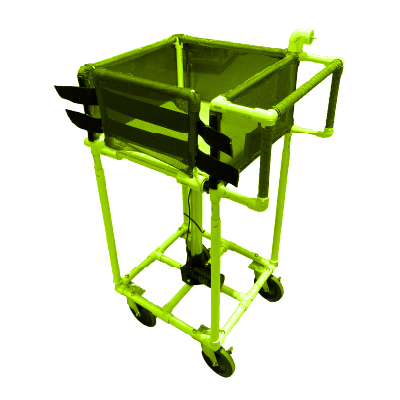
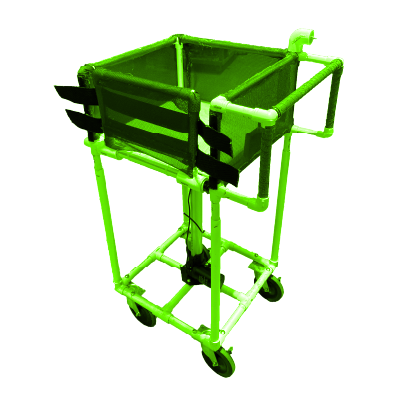
edits

Changed region(s): [[0.18, 0.06, 0.87, 0.93], [0.21, 0.27, 0.27, 0.3]]

diff --git a/cart-with-basket.html b/cart-with-basket.html
@@ -79,10 +79,10 @@
 </header>
 
 <body>
-    <div class="front-page">
-        <img src="images/cart-with-basket/small-cart-green-pixel.png" alt="cart-with-basket">
+    <div class="front-page green">
+        <img src="images/cart-with-basket/small-cart-green.png" alt="cart-with-basket">
     </div>
-    <div class="title-page">
+    <div class="title-page green">
         <p>Cart with basket</p>
     </div>
     <div class="content">
@@ -91,9 +91,11 @@
                 Project summary
             </p>
         </div>
-        <div class="content">
-            <img src="images/cart-with-basket/small-cart.png" alt="Image description">
-            <div class="text-box-2">
+        <div class="content-page">
+            <div class="image-section">
+                <img src="images/cart-with-basket/small-cart.png">
+            </div>
+            <div class="text-box-3">
                 <p>
                     <strong>Date:</strong> Jan. 2023 - Mar. 2023
                     <br><br>
@@ -101,17 +103,23 @@
                     challenges. Our mission was to create a device that improves the grocery shopping experience for our
                     client, Judy Geigner.
                     <br><br>
-                    Mrs. Giegner, a senior citizen struggling with Parkinson’s and osteoarthritis, faced difficulties when
+                    Mrs. Giegner, a senior citizen struggling with Parkinson’s and osteoarthritis, faced difficulties
+                    when
                     bending down, raising her arms above her shoulders, and executing complex hand movements. However,
                     despite her medical conditions, she independently managed her weekly grocery shopping and wanted to
                     continue doing it as it was one of her favorite hobbies.
                 </p>
             </div>
-
-            <img src="images/cart-with-basket/Yoon_Section6_Team4.png" alt="Image description">
-            <div class="text-box-2">
+        </div>
+        <div class="content-page">
+            <div class="image-section">
+                <img src="images/cart-with-basket/Yoon_Section6_Team4.png">
+            </div>
+            <div class="text-box-3">
                 <p>
-                    Understanding her needs led us to develop the <strong>Cart With Basket</strong>, specifically engineered to
+                    Understanding her needs led us to develop the <strong>Cart With Basket</strong>, specifically
+                    engineered
+                    to
                     facilitate easy transfer of groceries from her car trunk to her tabletop, which had different
                     heights. To
                     accommodate Mrs. Giegner’s mobility restrictions, we focused on creating a solution that minimized
@@ -123,15 +131,18 @@
                     the quarter, we presented this prototype to Mrs. Giegner.
                 </p>
             </div>
+        </div>
 
         <div class="chapter">
             <p>Major features</p>
         </div>
-        <div class="content">
-            <img src="images/cart-with-basket/7.png" alt="Image 2">
-            <div class="text-box-2">
+        <div class="content-page">
+            <div class="image-section">
+                <img src="images/cart-with-basket/7.png" alt="Image 2">
+            </div>
+            <div class="text-box-3">
                 <p>
-                    <strong>1. Openable side with velcro locks</strong>
+                    <strong>Openable side with velcro locks</strong>
                     <br><br>
                     A basket requires up and down hand movement. Since our client could not carry heavy groceries and
                     raise them up vertically, we needed to find an easy but effective way to load and unload groceries.
@@ -147,17 +158,19 @@
             </div>
         </div>
         <div class="content-page">
-            <img src="images/cart-with-basket/5.jpg" alt="Image 2">
-            <div class="text-box-2">
+            <div class="image-section">
+                <img src="images/cart-with-basket/5.jpg" alt="Image 2">
+            </div>
+            <div class="text-box-3">
                 <p>
-                    <strong>2. U-shaped handles</strong>
+                    <strong>U-shaped handles</strong>
                     <br><br>
                     Our team decided to improve the handle: instead of only having the straight bar a normal shopping
                     cart would have, we decided to add vertical handles on each side, creating an unique inverse
                     U-shaped handle. This shape helps the client push the cart up a ramp as it provides a more stable
                     grip. The handle was wrapped with rubber grip tape for comfort and safety.
                     <br><br>
-                    <strong>3. Adjustable height using linear actuator</strong>
+                    <strong>Adjustable height using linear actuator</strong>
                     <br><br>
                     The client's car trunk and the tabletop had a difference in height of 10 inches. The client
                     wanted a non-complicated device that would assist her moving groceries up to her tabletop.
@@ -173,34 +186,34 @@
                     change
                     batteries every once in a while.
                     <br><br>
-                    <strong>4. Locking wheels</strong>
+                    <strong>Locking wheels</strong>
                     <br><br>
                     In order for the client to move her groceries from her car to her tabletop, she had to walk up a
                     ramp and open a door. The locking wheels fix the cart on the ramp while she opens her door.
                 </p>
             </div>
         </div>
-        <div class="chapter-page">
+        <div class="chapter">
             <p>Mockups, CAD, making, & presentation</p>
         </div>
-    </div>
-    <div class="image-section">
-        <img src="images/cart-with-basket/mockup1.png" alt="Image 2">
-        <img src="images/cart-with-basket/sketch2.png" class="landscape" alt="Image 2">
-        <img src="images/cart-with-basket/mockup12.jpg" alt="Image 2">
-        <img src="images/cart-with-basket/sketch1.png" alt="Image 2">
-        <img src="images/cart-with-basket/Asset 1.png" alt="Image 2">
-        <img src="images/cart-with-basket/1.jpeg" alt="Image 2">
-        <img src="images/cart-with-basket/2.jpeg" alt="Image 2">
-        <img src="images/cart-with-basket/3.jpeg" alt="Image 2">
-        <img src="images/cart-with-basket/4.jpeg" alt="Image 2">
-        <img src="images/cart-with-basket/5.jpeg" alt="Image 2">
-        <img src="images/cart-with-basket/6.jpg" alt="Image 2">
-        <img src="images/cart-with-basket/70003487109__E4B103E2-3CEB-418E-A9C4-E3CDA11A3FDA.jpeg" alt="Image 2">
-        <img src="images/cart-with-basket/IMG_2706.jpeg" alt="Image 2">
-        <img src="images/cart-with-basket/IMG_8108.jpeg" class="landscape" alt="Image 2">
-    </div>
-    <div class="extra-space">
+        <div class="image-section">
+            <img src="images/cart-with-basket/mockup1.png" alt="Image 2">
+            <img src="images/cart-with-basket/sketch2.png" class="landscape" alt="Image 2">
+            <img src="images/cart-with-basket/mockup12.jpg" alt="Image 2">
+            <img src="images/cart-with-basket/sketch1.png" alt="Image 2">
+            <img src="images/cart-with-basket/Asset 1.png" alt="Image 2">
+            <img src="images/cart-with-basket/1.jpeg" alt="Image 2">
+            <img src="images/cart-with-basket/2.jpeg" alt="Image 2">
+            <img src="images/cart-with-basket/3.jpeg" alt="Image 2">
+            <img src="images/cart-with-basket/4.jpeg" alt="Image 2">
+            <img src="images/cart-with-basket/5.jpeg" alt="Image 2">
+            <img src="images/cart-with-basket/6.jpg" alt="Image 2">
+            <img src="images/cart-with-basket/70003487109__E4B103E2-3CEB-418E-A9C4-E3CDA11A3FDA.jpeg" alt="Image 2">
+            <img src="images/cart-with-basket/IMG_2706.jpeg" alt="Image 2">
+            <img src="images/cart-with-basket/IMG_8108.jpeg" class="landscape" alt="Image 2">
+        </div>
+        <div class="extra-space">
+        </div>
     </div>
 
 </body>

diff --git a/puppet-theater.html b/puppet-theater.html
@@ -93,7 +93,9 @@
             </p>
         </div>
         <div class="content-page">
-            <img src="images/puppet-theater/puppet-theater-square.png">
+            <div class="image-section">
+                <img src="images/puppet-theater/puppet-theater-square.png">
+            </div>
             <div class="text-box-2">
                 <p>
                     <strong>Date:</strong> Jun. 2024 - Nov. 2024
@@ -106,7 +108,6 @@
                 </p>
             </div>
         </div>
-    </div>
     <div class="content">
         <div class="chapter">
             <p>
